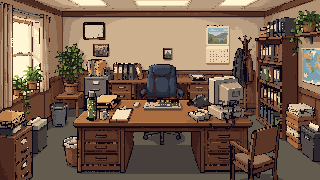
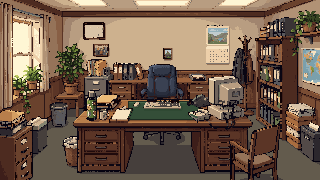
A green desk mat that sparkles when the desk is hovered
The whole desk still opens the Finder dialog and takes drops; the mat
under the keyboard gives the visual feedback the other objects have.
Overlapping objects: the smallest under the pointer wins, so the coffee
mug works again (the desk used to swallow its clicks).

Changed region(s): [[0.375, 0.5556, 0.625, 0.6944]]

diff --git a/crates/wolfgang-app/ui/app.js b/crates/wolfgang-app/ui/app.js
@@ -139,7 +139,7 @@ function tick(now) {
   ctx.drawImage(IMG[SCENE.background], 0, 0);
   const f = W.frames[steps[step][0]];
   ctx.drawImage(IMG[W.sheet], f.x, f.y, f.w, f.h, W.origin[0], W.origin[1], f.w, f.h);
-  if (hover && hover !== 'desk' && mode !== 'work') {
+  if (hover && mode !== 'work') {
     const r = SCENE.hotspots[hover].rects[0];
     const sp = SCENE.ui.animations.sparkle, s = UI[sp[Math.floor(now / 260) % sp.length][0]];
     ctx.drawImage(IMG[SCENE.ui.sheet], s.x, s.y, s.w, s.h, r.x + r.w - 4, r.y - 4, s.w, s.h);
@@ -501,7 +501,8 @@ function onUpdateProgress(p) {
 /* ── Drag and drop, hotspots ───────────────────────────────────────────── */
 
 function onDrop(e) {
-  const desk = SCENE.hotspots.desk.rects[0], d = $('drop');
+  // The whole desk lights up (its biggest rect; the first one is the mat, for the sparkle).
+  const desk = SCENE.hotspots.desk.rects.reduce((a, b) => (b.w * b.h > a.w * a.h ? b : a)), d = $('drop');
   if (e.type === 'enter' || e.type === 'over') {
     Object.assign(d.style, { left: `${desk.x * scale}px`, top: `${desk.y * scale}px`, width: `${desk.w * scale}px`, height: `${desk.h * scale}px` });
     d.classList.add('on');
@@ -518,17 +519,22 @@ function onDrop(e) {
 function setupStage() {
   const stage = $('stage'), tip = $('tip');
   const at = e => { const r = stage.getBoundingClientRect(); return [(e.clientX - r.left) / scale, (e.clientY - r.top) / scale]; };
-  const hit = ([x, y]) => Object.entries(SCENE.hotspots).find(([, s]) => s.rects.some(r => x >= r.x && y >= r.y && x < r.x + r.w && y < r.y + r.h));
+  // The smallest object under the pointer wins (the mug sits on the desk, not the other way round).
+  const area = s => Math.max(...s.rects.map(r => r.w * r.h));
+  const hit = ([x, y]) =>
+    Object.entries(SCENE.hotspots)
+      .filter(([, s]) => s.rects.some(r => x >= r.x && y >= r.y && x < r.x + r.w && y < r.y + r.h))
+      .sort(([, a], [, b]) => area(a) - area(b))[0];
   stage.addEventListener('mousemove', e => {
     const overUi = e.target.closest('.bubble, .answer, #panel, #portrait');
     const h = overUi || mode === 'work' || mode === 'panel' ? null : hit(at(e));
     const clickable = !!h;
-    hover = clickable && h[0] !== 'desk' ? h[0] : null; // the desk isn't outlined, it's big
+    hover = clickable ? h[0] : null;
     stage.style.cursor = clickable ? 'pointer' : 'default';
     tip.style.display = clickable ? 'block' : 'none';
     if (clickable) {
       const r = stage.getBoundingClientRect();
-      tip.textContent = h[0] === 'desk' ? 'Dateien auswählen … (⌘O)' : h[1].label;
+      tip.textContent = h[1].label;
       tip.style.left = `${e.clientX - r.left + 12}px`;
       tip.style.top = `${e.clientY - r.top + 12}px`;
     }
@@ -540,7 +546,7 @@ function setupStage() {
     if (!h) return;
     const action = h[1].action;
     if (action === 'sip') { play('sip', 2300); Sound.sip(); }
-    else if (action === 'drop') pickFiles();
+    else if (action === 'pick') pickFiles();
     else if (action === 'settings' || action === 'presets' || action === 'about') openPanel(action);
   });
 }

diff --git a/crates/wolfgang-art/src/preview.html b/crates/wolfgang-art/src/preview.html
@@ -153,12 +153,12 @@ const ANSWERS = ["Fürs Web vorbereiten – klein und schnell", "Hochwertig beha
     const h = hit(at(e)); if (!h || e.target.closest('.bubble')) return;
     const act = h[1].action;
     if (act === 'sip') play('sip', 2200);
-    else if (act === 'drop') play('type', 2500);
+    else if (act === 'pick') play('type', 2500);
     else if (act === 'settings') setMood('thinking');
     else if (act === 'presets') setMood('happy');
     else if (act === 'about') setMood('proud');
   });
-  const desk = SCENE.hotspots.desk.rects[0], drop = $('drop');
+  const desk = SCENE.hotspots.desk.rects.reduce((a, b) => (b.w * b.h > a.w * a.h ? b : a)), drop = $('drop');
   const showDrop = on => { const k = scale(); Object.assign(drop.style, { display: on ? 'block' : 'none', left: `${desk.x * k}px`, top: `${desk.y * k}px`, width: `${desk.w * k}px`, height: `${desk.h * k}px` }); };
   stage.addEventListener('dragover', e => { e.preventDefault(); showDrop(true); if (anim !== 'hand') play('happy'); });
   stage.addEventListener('dragleave', () => showDrop(false));

diff --git a/crates/wolfgang-art/src/build.rs b/crates/wolfgang-art/src/build.rs
@@ -327,7 +327,9 @@ pub fn manifest(paths: &Paths, wolfgang: SpriteManifest, ui: SpriteManifest) {
     .collect();
     let hotspots = [
         // Everything interactive sits on or at the desk.
-        ("desk", Hotspot { action: "drop", label: "Leg's auf den Tisch", rects: vec![r(73, 98, 180, 75)] }),
+        // The whole desk: click → Finder dialog, and it's where drops light up. The first
+        // rect is the green desk mat, where the sparkle shows while hovering the desk.
+        ("desk", Hotspot { action: "pick", label: "Dateien auswählen … (⌘O)", rects: vec![r(128, 101, 73, 19), r(73, 98, 180, 75)] }),
         ("wolfgang", Hotspot { action: "about", label: "Wolfgang: Über Wolfgang", rects: vec![r(145, 52, 36, 46)] }),
         ("computer", Hotspot { action: "settings", label: "Computer: Einstellungen", rects: vec![r(207, 76, 38, 43)] }),
         ("clipboard", Hotspot { action: "presets", label: "Klemmbrett: Vorlagen", rects: vec![r(110, 106, 23, 15)] }),

diff --git a/PLAN.md b/PLAN.md
@@ -376,6 +376,7 @@ Decided with the user: no paid Apple Developer account, ever (internal tool; col
 - **Pictures from PDFs (user's choice: embedded pictures, as they are, no questions):** `pdf.rs` with lopdf walks every page including form XObjects (layout programs nest images there). JPEGs are copied byte for byte; CMYK JPEGs, JPEGs with a soft mask and JPEG 2000 go through ImageIO to PNG; raw images (Gray/RGB/CMYK/ICC/Indexed, 1–16 bit, soft masks, `/Decode [1 0]`) become PNG. Skipped: stencil masks, pictures under 48 px, the same object or content twice (logos on every page); JBIG2/CCITT scans and odd colour spaces are counted and mentioned. Output: `broschuere/seite-01-1.jpg` … PDFs don't count towards „gespart“; Wolfgang says how many pictures he got out.
 - **Releases from the Mac:** `scripts/release.sh [--publish]` (checks, tests, builds, pushes commit + tag, uploads via `gh`). `release.yml` is now a manual fallback (`workflow_dispatch` with a tag). Release text in `.github/release-body.md`.
 - **Keyboard and Finder dialog (user's request, 2026-11-09):** clicking the desk, ⌘O, `o` or the small „Dateien auswählen …“ answer on the empty desk opens a native `NSOpenPanel` (files *and* folders, several at once; Tauri's dialog only does one or the other). For everyone: ↑↓ Enter Esc Space as before, plus 1–9 (that answer), ⌘O, ⌘, (settings), ? (a „Tastatur“ panel with all shortcuts). For vim people, on letters that did nothing before: j k l h, g G, i or / (own answer), o s p, q, Ctrl-[ = Esc; none of it while typing in a field. Panels: j/k rows, h/l buttons, Enter presses; the focus outline only appears once the keyboard is used there, so mouse users see no change. Tested by driving the browser mock with real key events (headless Chrome over the DevTools protocol).
+- **Desk mat (user's request):** a dark green felt mat under the keyboard (chosen over blue-grey from two mockups) gives the desk visible hover feedback: hovering anywhere over the desk makes the mat sparkle; clicking anywhere on the desk opens the Finder dialog, and drops light up the whole desk. The desk hotspot has two rects (mat first for the sparkle, then the whole desk). Overlapping objects: the smallest one under the pointer wins, which also fixed the coffee mug (the desk used to swallow its clicks).
 - **App check:** settings panel and progress checked in the browser mock (headless screenshots); the app logic with a real video drop is a test in `session.rs`. Not done: clicking through the real app window (no desktop control in this environment) — a short manual check before the next release.
 
 ---
